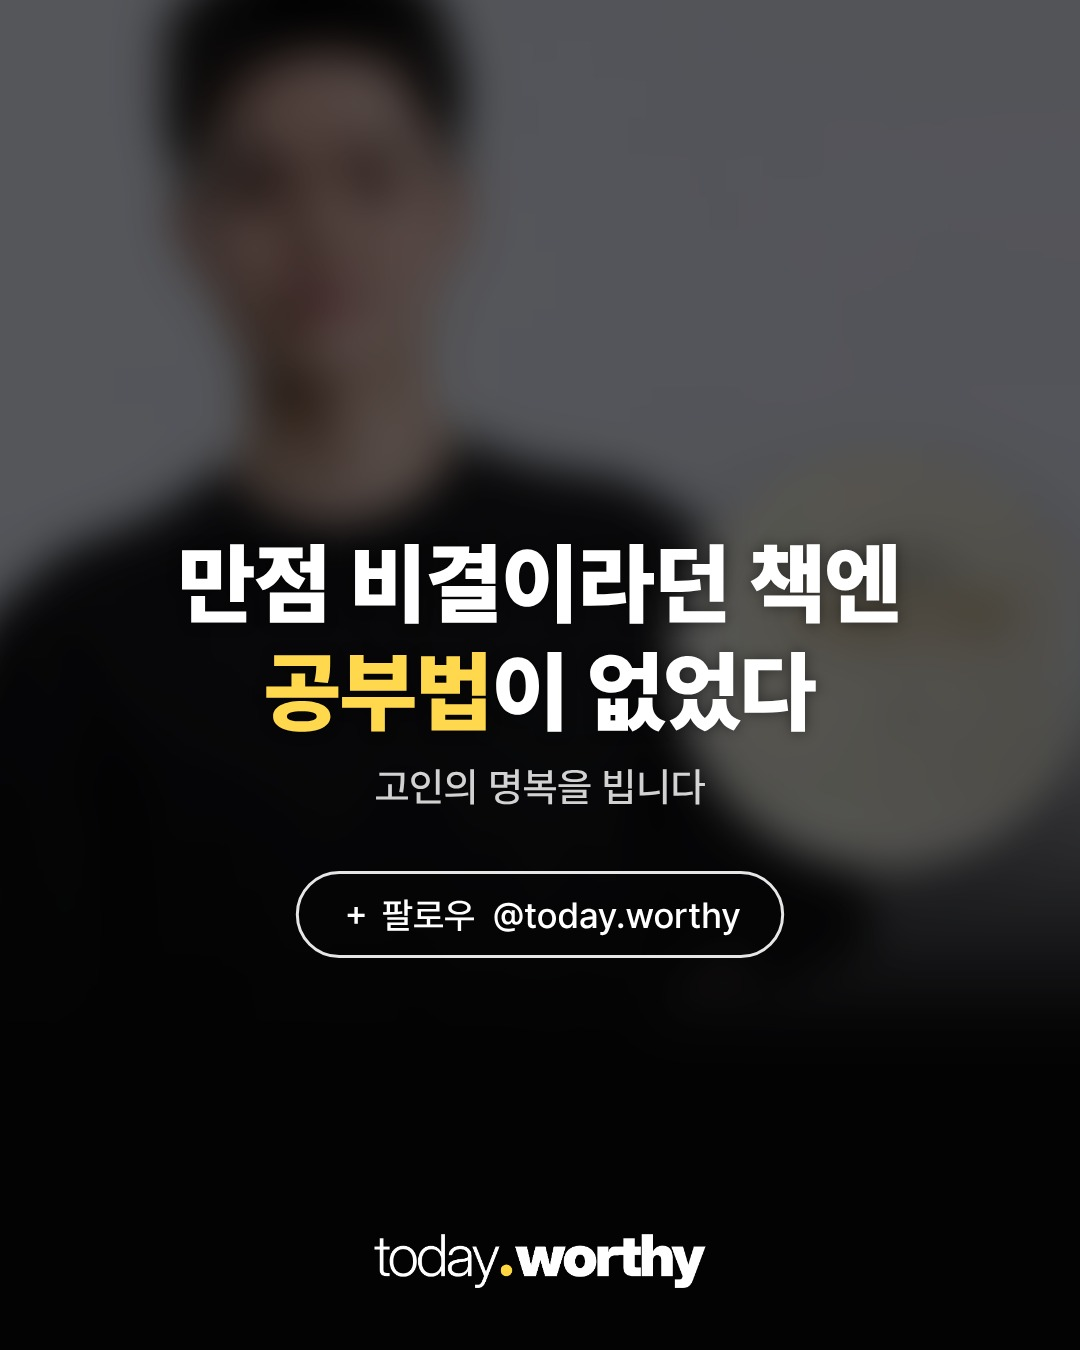
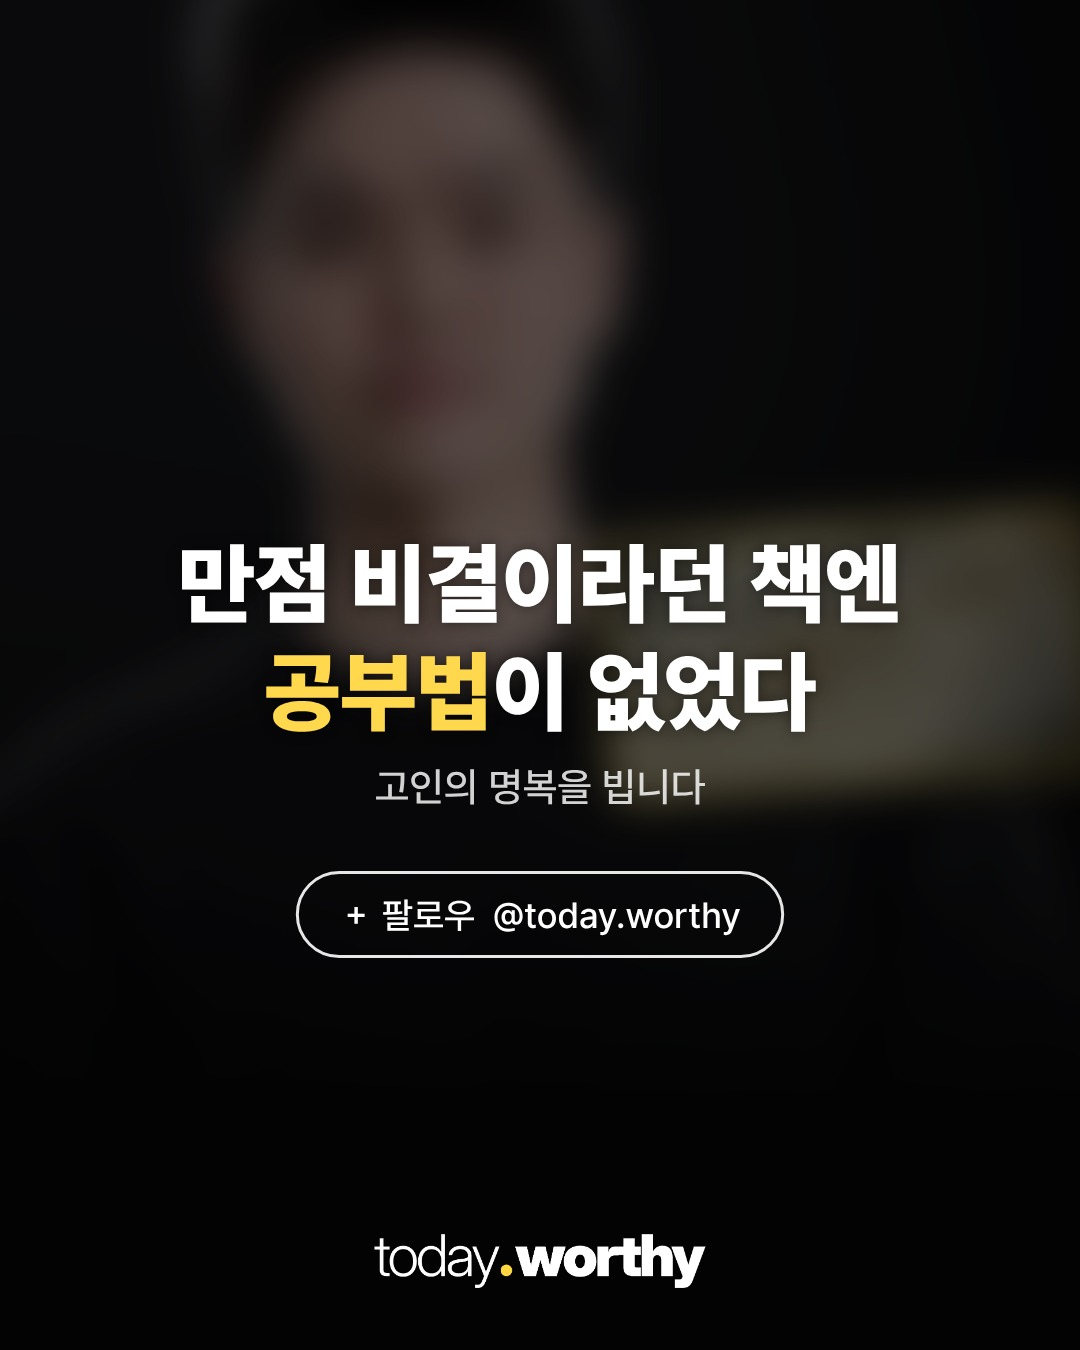
booktalk: 표지 다시(어두운 바탕 인물 + 책 카드)
Claude-Session: https://claude.ai/code/session_01FGsw5S4nGrZdCJo7qBU1wE

diff --git a/media/20261127-booktalk/make_cover.py b/media/20261127-booktalk/make_cover.py
@@ -1,0 +1,31 @@
+"""20261127-booktalk 표지 배경: 인물 사진(밝은 배경 지우고 어두운 바탕) + 오른쪽 '브레인 악셀' 책 카드(JTBC 화면)."""
+from pathlib import Path
+import numpy as np
+from PIL import Image, ImageDraw, ImageFilter, ImageEnhance
+D = Path(__file__).parent
+p = Image.open(D / "cand/lee_photo.jpg").convert("RGB"); a = np.asarray(p).astype(float)
+bgc = np.median(np.concatenate([a[:40, :].reshape(-1, 3), a[:, :30].reshape(-1, 3), a[:, -30:].reshape(-1, 3)]), 0)
+m = (np.sqrt(((a - bgc) ** 2).sum(2)) > 38).astype(np.uint8) * 255
+mi = Image.fromarray(m).filter(ImageFilter.MedianFilter(7)).filter(ImageFilter.MaxFilter(3)).filter(ImageFilter.GaussianBlur(1.2))
+W, H = 1080, 1350; k = 1.45; pw, ph = int(p.width * k), int(p.height * k)
+ps = p.resize((pw, ph), Image.LANCZOS); ms = mi.resize((pw, ph), Image.LANCZOS)
+cv = Image.new("RGB", (W, H), (14, 14, 16))
+glow = Image.new("L", (W, H), 0); ImageDraw.Draw(glow).ellipse((-200, -150, 900, 800), fill=90); glow = glow.filter(ImageFilter.GaussianBlur(160))
+cv = Image.composite(Image.new("RGB", (W, H), (58, 60, 66)), cv, glow)
+cv.paste(ps, (-260, -40), ms)
+g = Image.new("L", (W, H), 0); d = ImageDraw.Draw(g)
+for y in range(780, 1050): d.line((0, y, W, y), fill=int(255 * (y - 780) / 270))
+for y in range(1050, H): d.line((0, y, W, y), fill=255)
+cv = Image.composite(Image.new("RGB", (W, H), (12, 12, 14)), cv, g).convert("RGBA")
+fr = Image.open(D / "cand/fr/raw132.jpg").convert("RGB")
+bk = fr.crop((40, 50, 520, 300)); cw = 430
+bk = ImageEnhance.Sharpness(bk.resize((cw, round(bk.height * cw / bk.width)), Image.LANCZOS)).enhance(1.4)
+pad = 8; card = Image.new("RGBA", (cw + 2 * pad, bk.height + 2 * pad), (0, 0, 0, 0))
+ImageDraw.Draw(card).rounded_rectangle((0, 0, card.width - 1, card.height - 1), 22, fill=(255, 216, 77, 255))
+mk = Image.new("L", bk.size, 0); ImageDraw.Draw(mk).rounded_rectangle((0, 0, bk.width - 1, bk.height - 1), 16, fill=255)
+card.paste(bk, (pad, pad), mk); card = card.rotate(4, expand=True, resample=Image.BICUBIC)
+x, y = W - card.width - 30, 520
+sh = Image.new("RGBA", (card.width + 80, card.height + 80), (0, 0, 0, 0)); sh.paste((0, 0, 0, 170), (40, 52), card.split()[3]); sh = sh.filter(ImageFilter.GaussianBlur(18))
+cv.alpha_composite(sh, (x - 40, y - 40)); cv.alpha_composite(card, (x, y))
+cv.convert("RGB").save(D / "cand/cover_bg.jpg", quality=94)
+print("ok")
